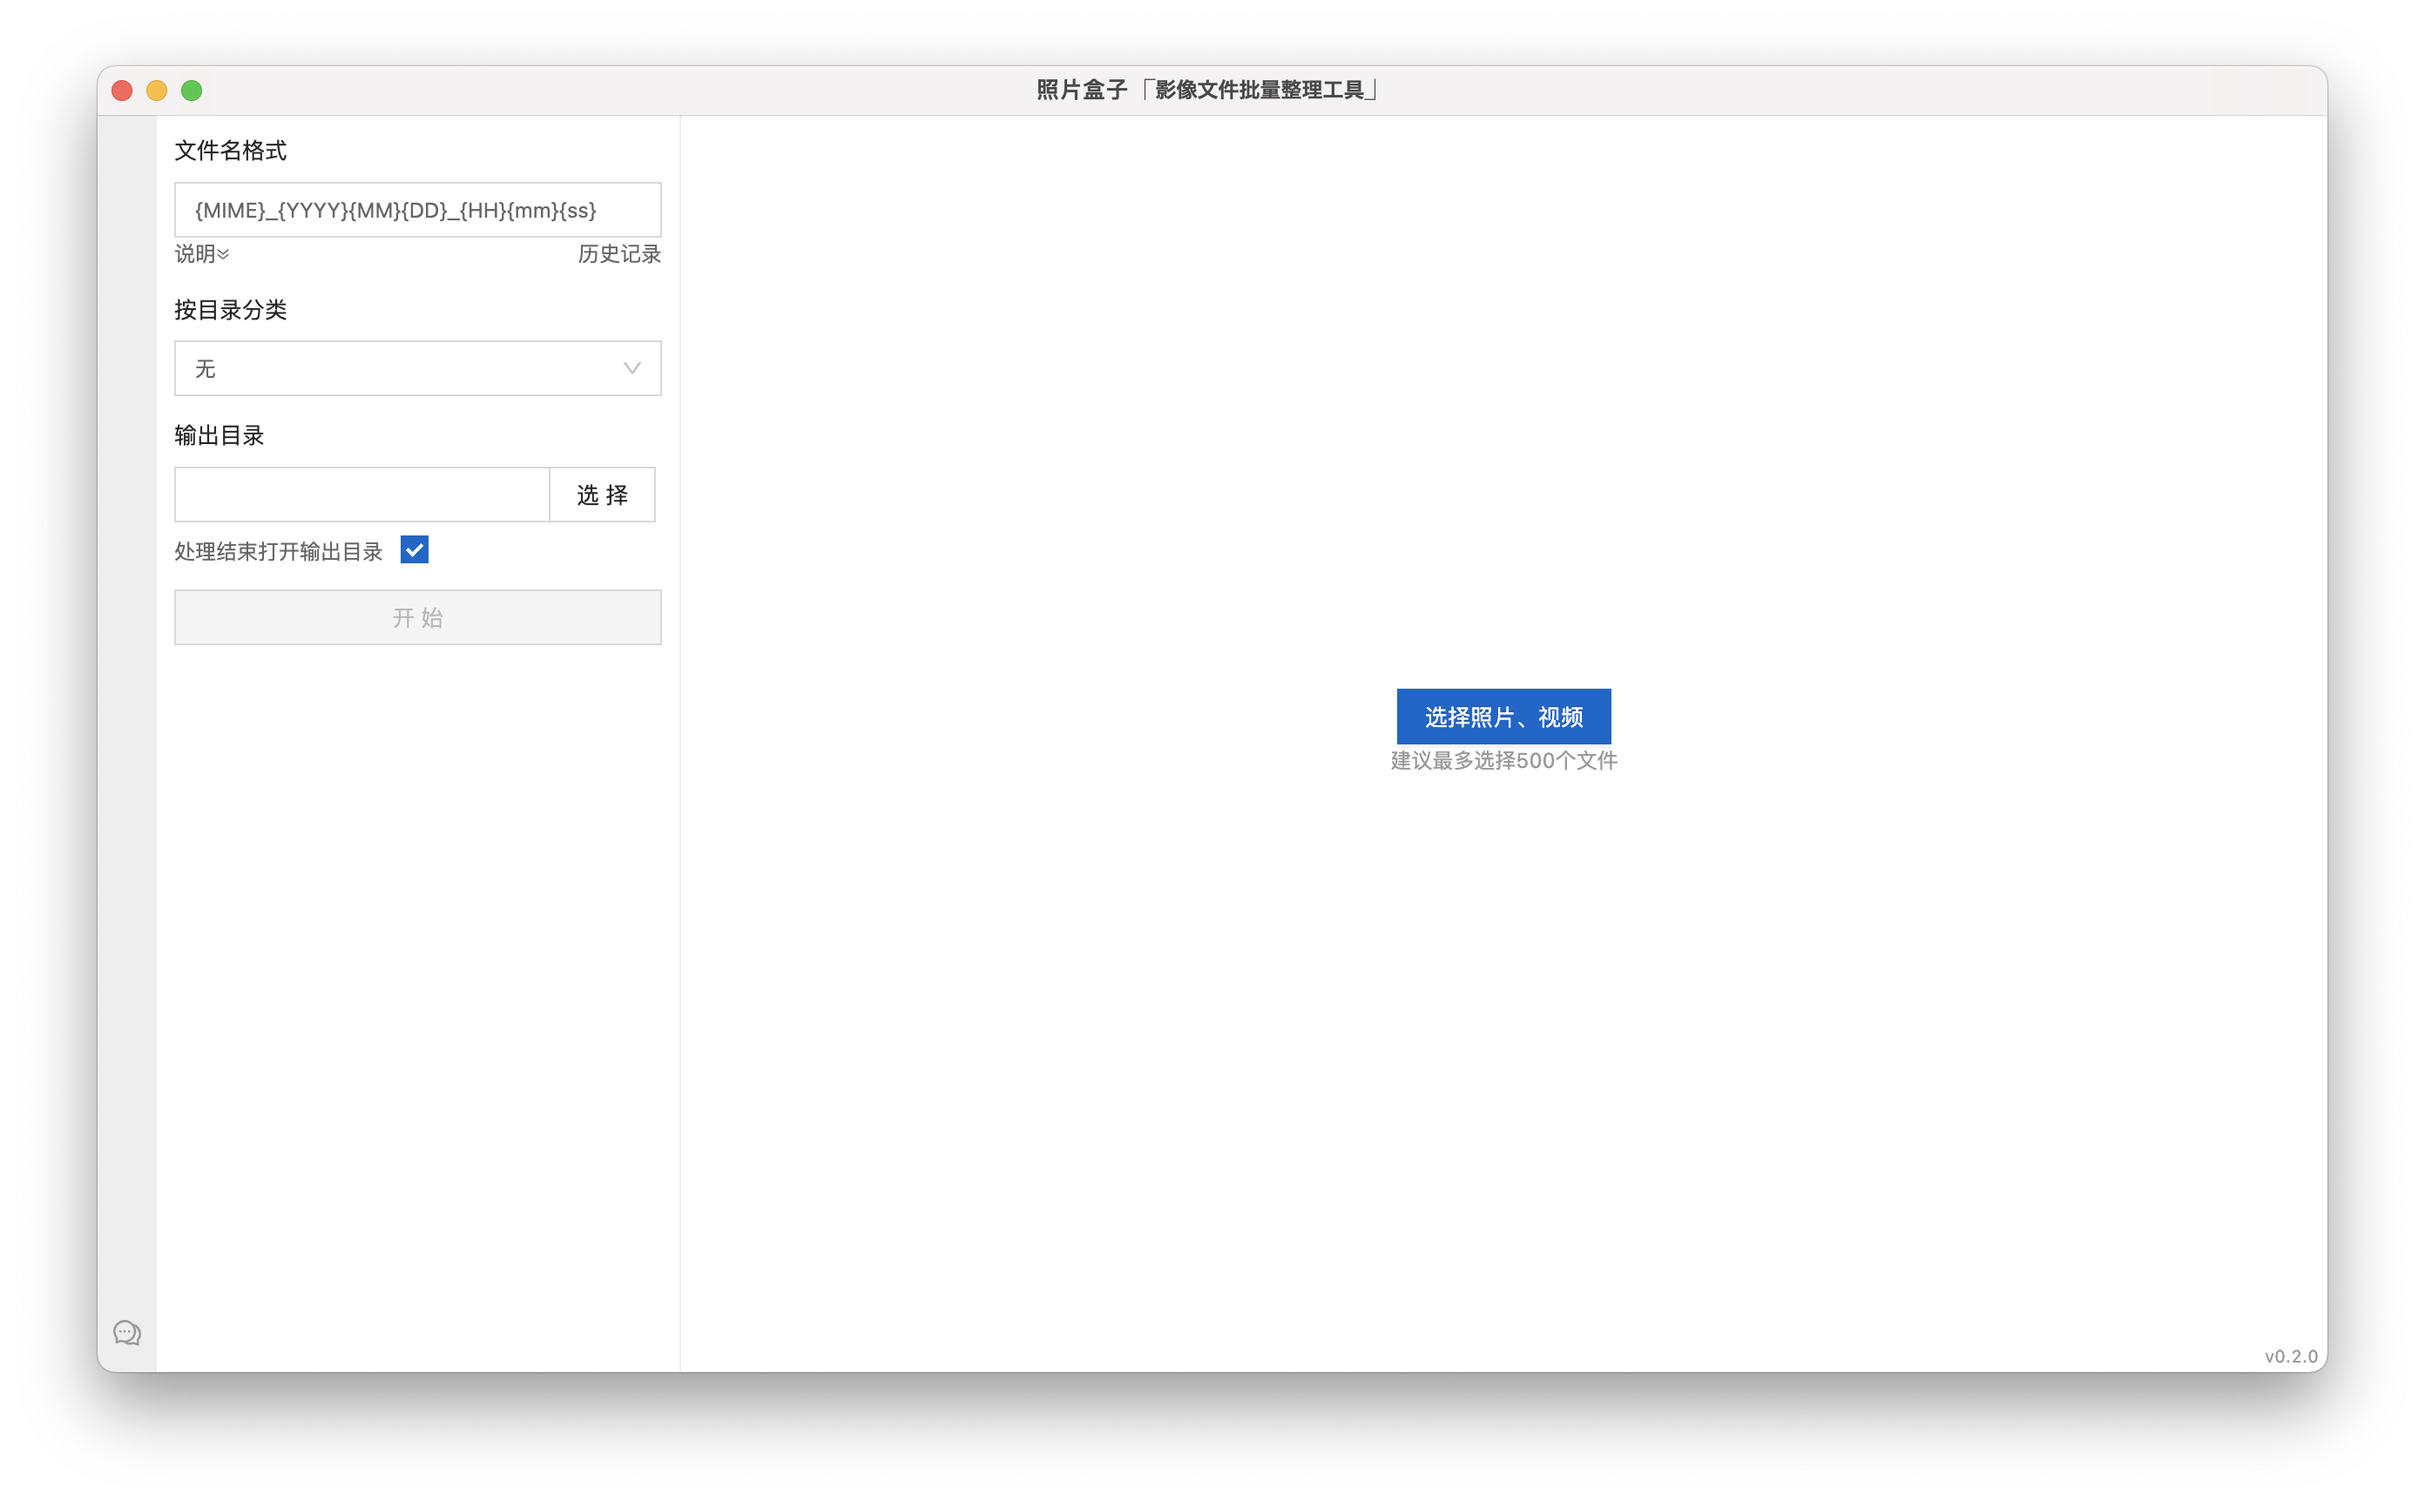
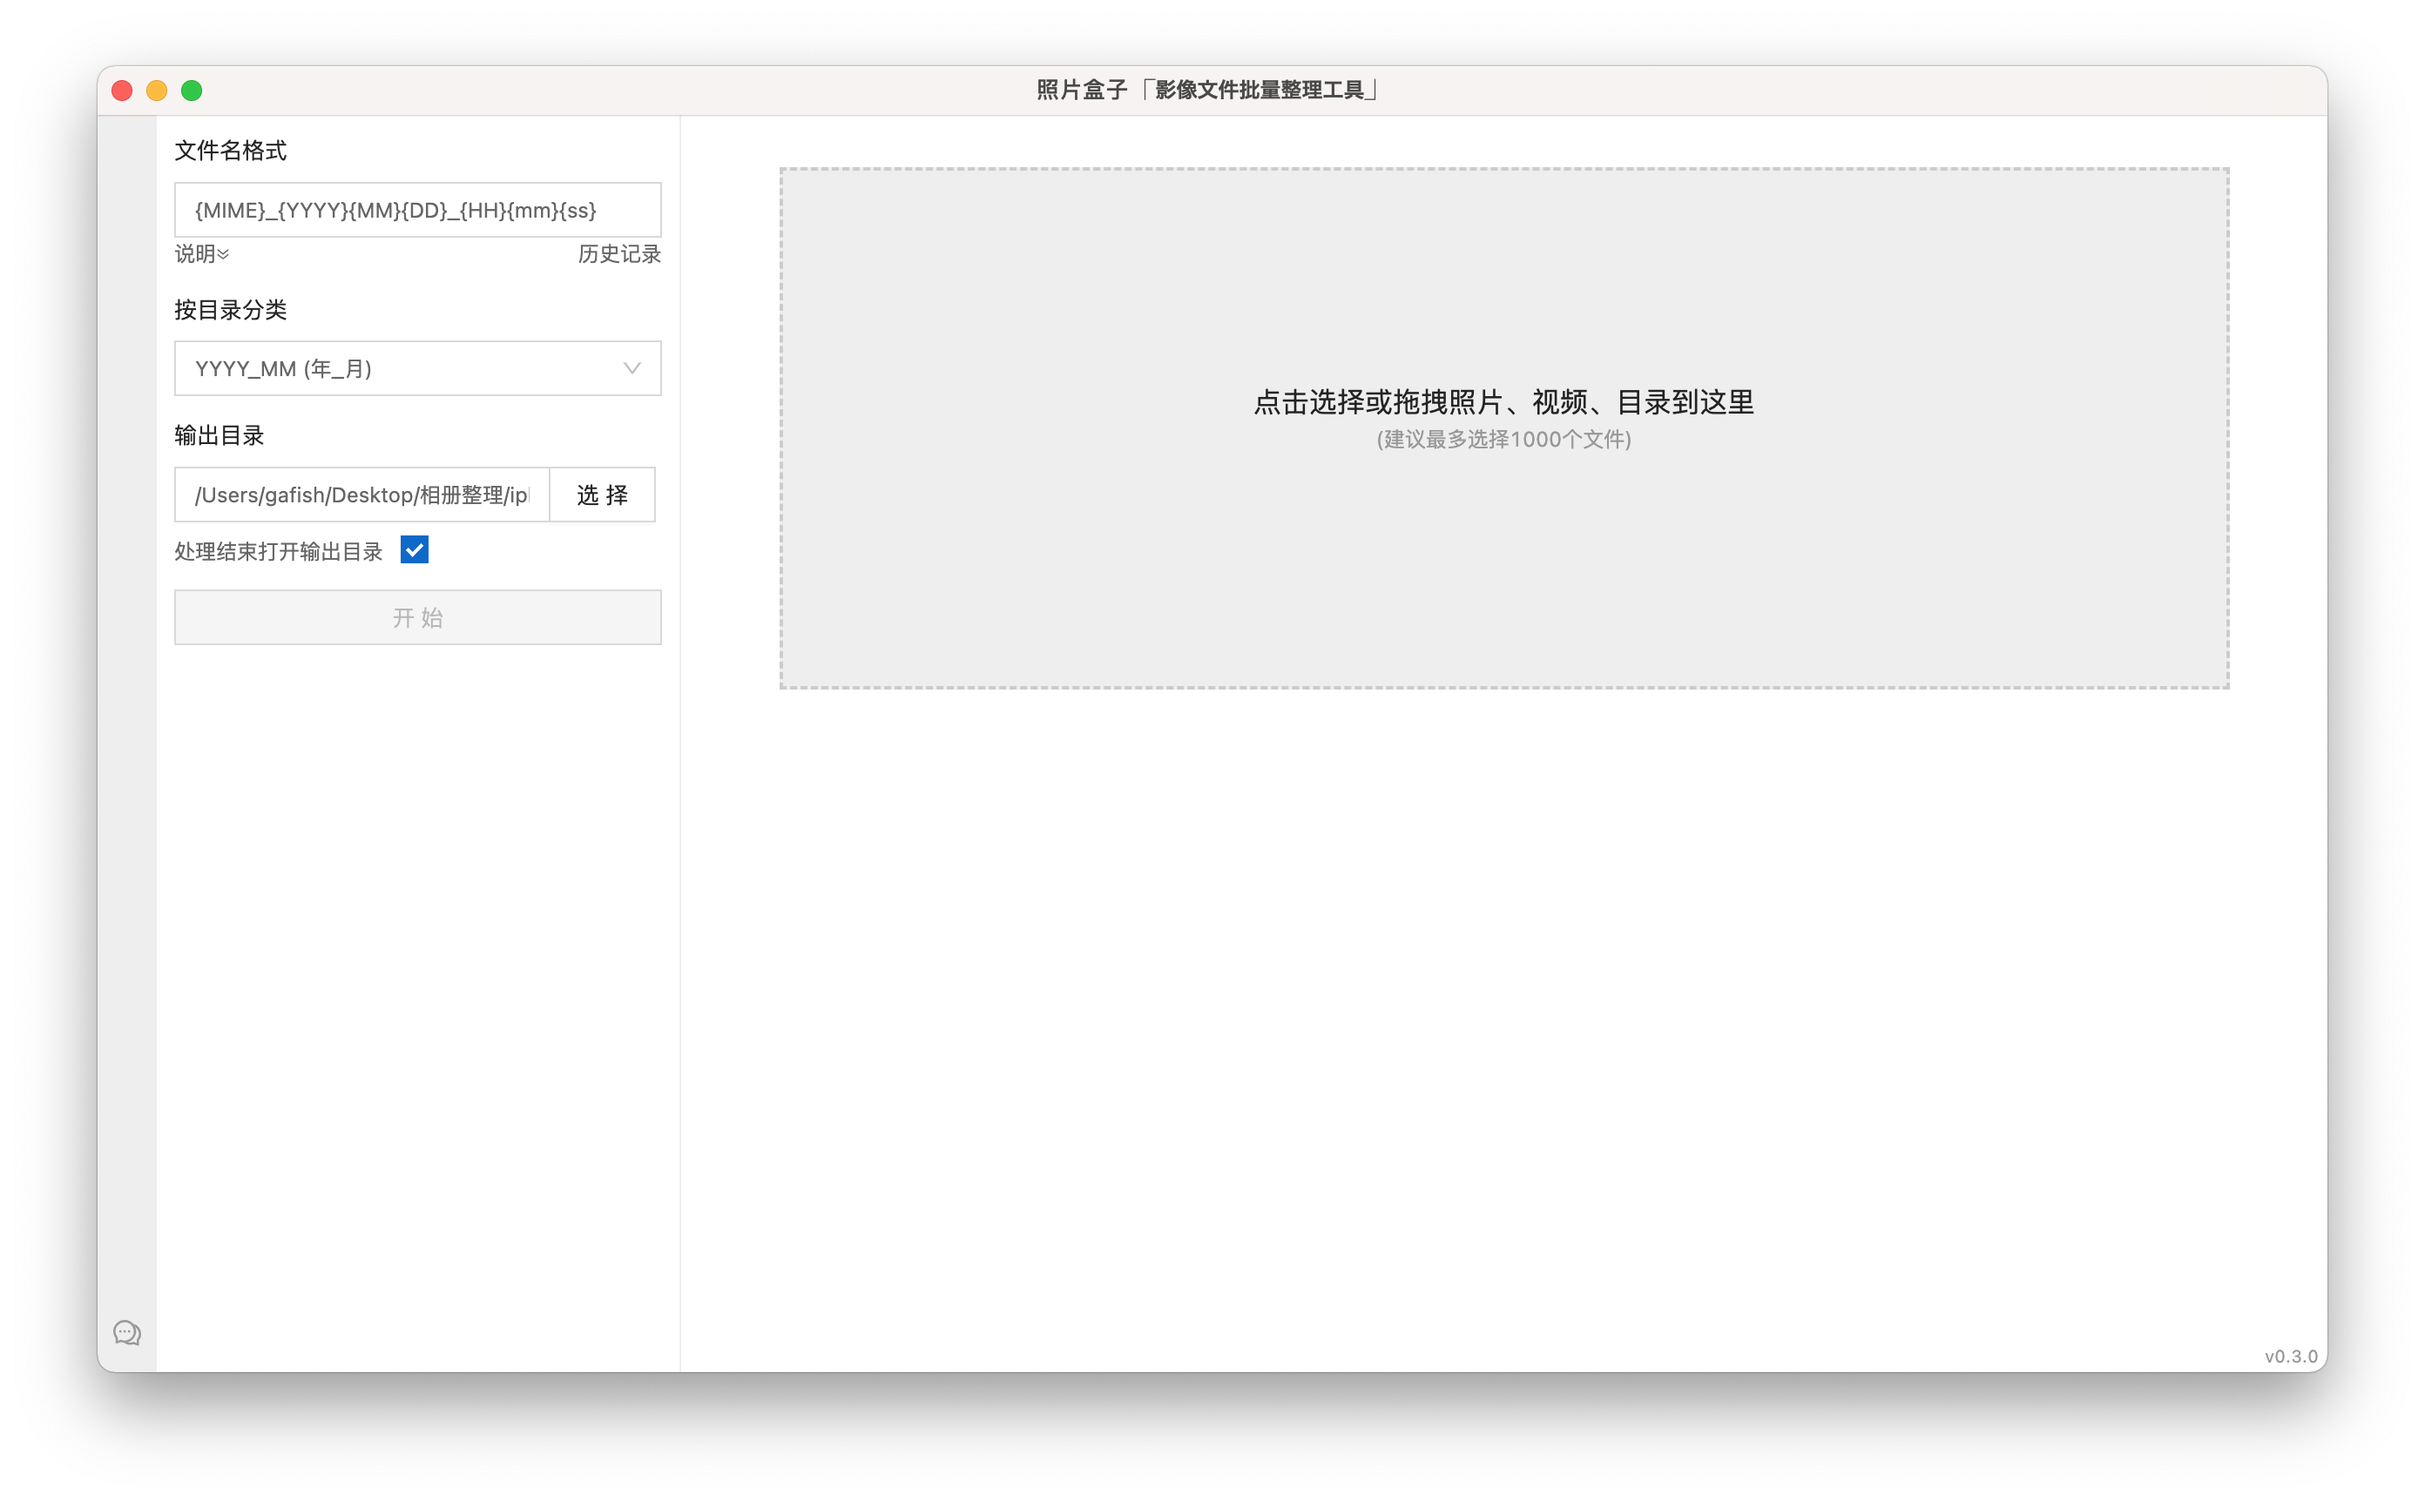
update

Changed region(s): [[0.5, 0.2459, 0.7188, 0.3074], [0.5625, 0.4304, 0.6875, 0.5226], [0.0938, 0.3074, 0.2188, 0.3382]]

diff --git a/README.md b/README.md
@@ -1,6 +1,6 @@
 # 照片盒子
 
-当前版本：v0.2.0
+当前版本：v0.3.0
 
 一个用于批量整理照片的工具
 
@@ -22,6 +22,9 @@
 
 查看照片详情及预览，支持按日期目录分类
 ![](./screenshot/2.png)
+
+文件过滤
+![](./screenshot/4.png)
 
 重命名后的文件列表
 ![](./screenshot/3.png)
